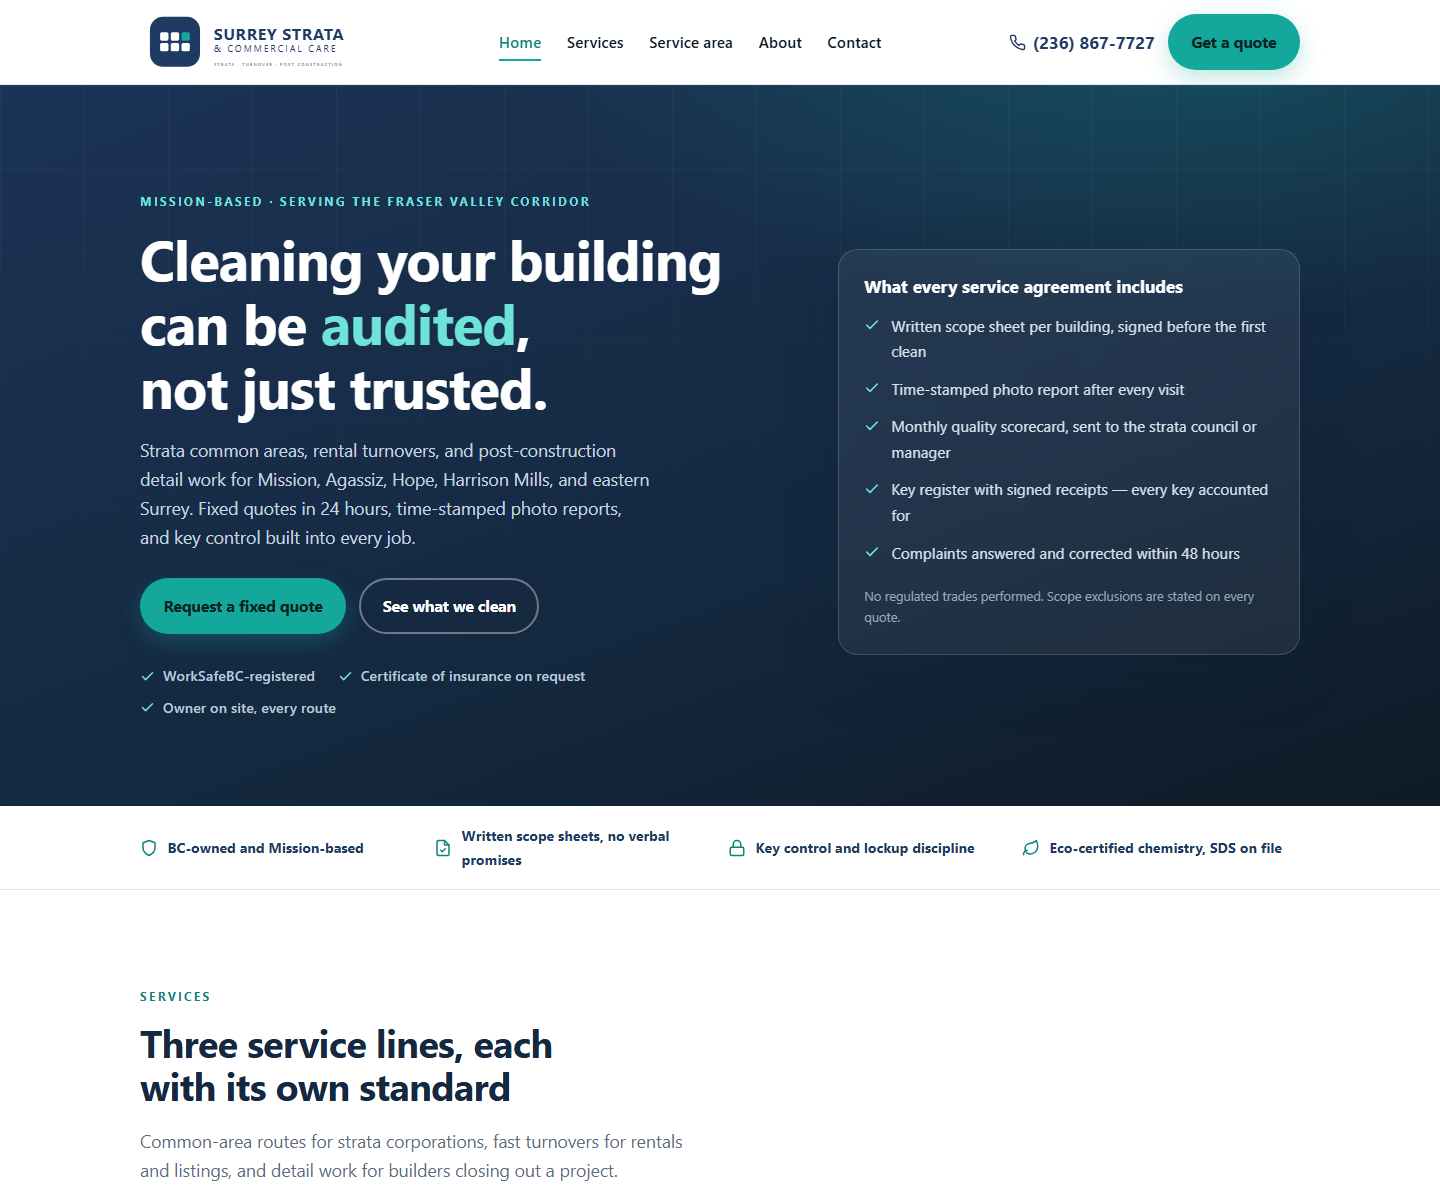
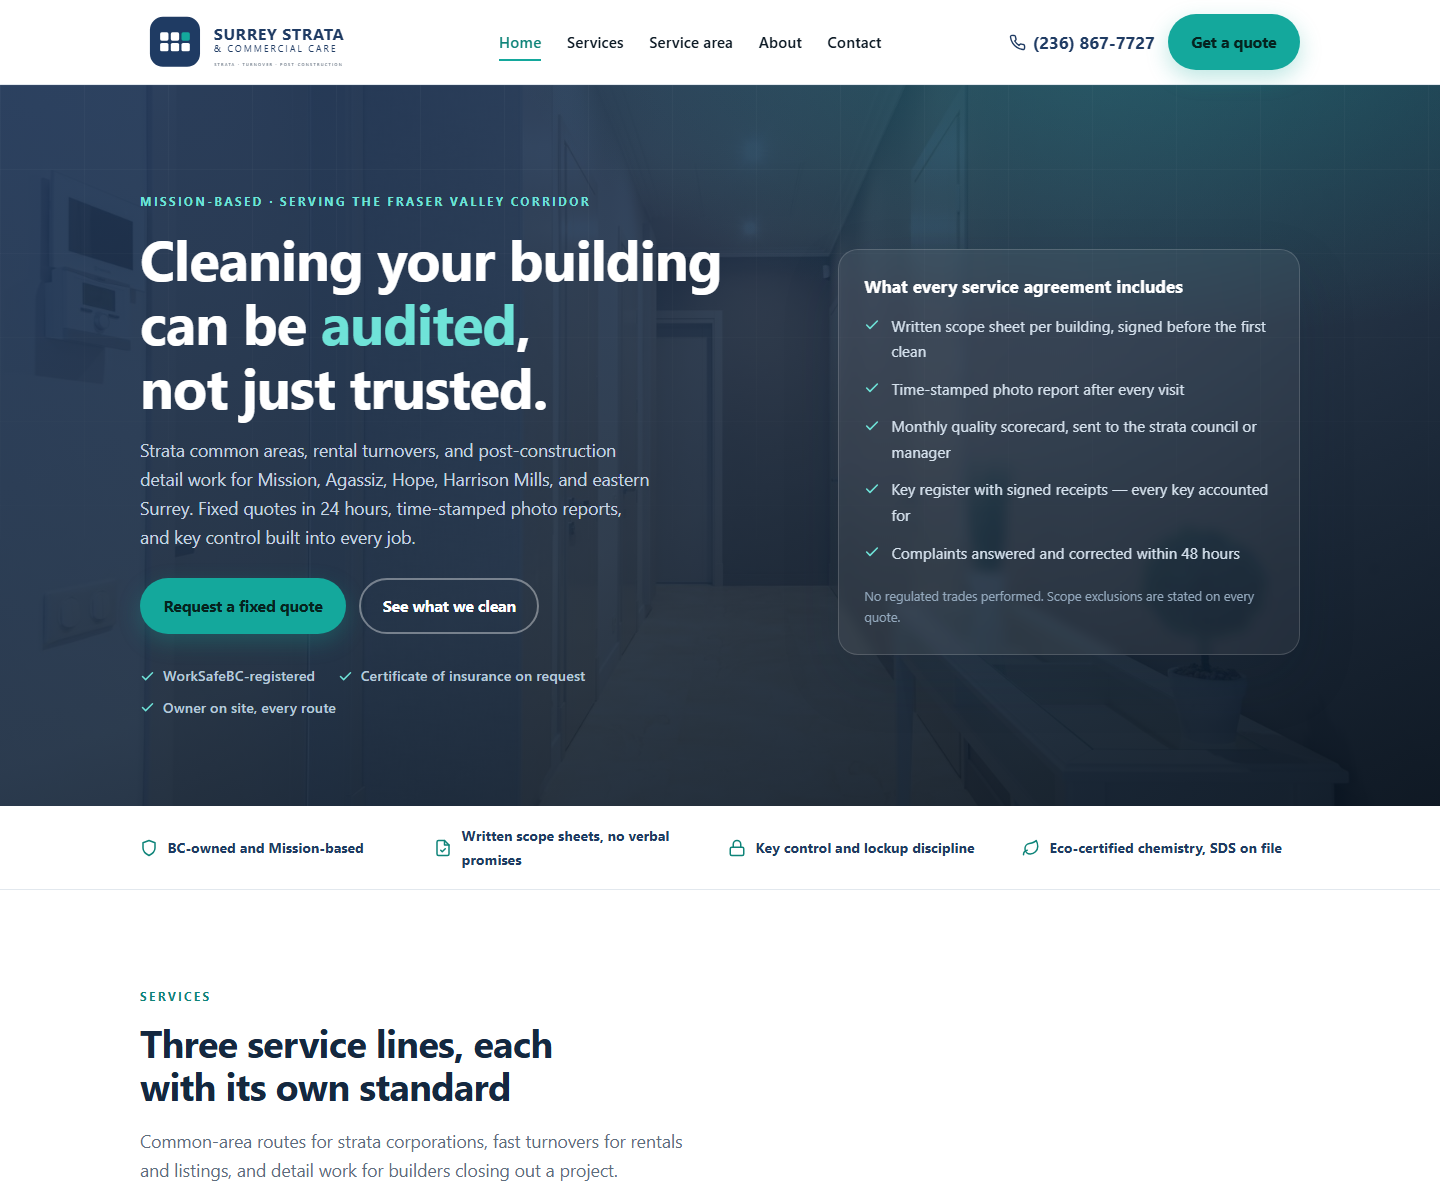
Serve hero as WebP with JPEG fallback

diff --git a/assets/css/site.css b/assets/css/site.css
@@ -131,7 +131,12 @@ li { margin-bottom: .45em; }
 /* ---------- hero ---------- */
 .hero {
   position: relative; overflow: hidden; color: #fff;
-  background: #14283F url("../img/photos/hero-corridor.jpg") center / cover no-repeat;
+  background-color: #14283F;
+  background-image: url("../img/photos/hero-corridor.jpg");
+  background-image: image-set(url("../img/photos/hero-corridor.webp") type("image/webp"), url("../img/photos/hero-corridor.jpg") type("image/jpeg"));
+  background-position: center;
+  background-size: cover;
+  background-repeat: no-repeat;
 }
 .hero::before {
   content: ""; position: absolute; inset: 0; pointer-events: none;
